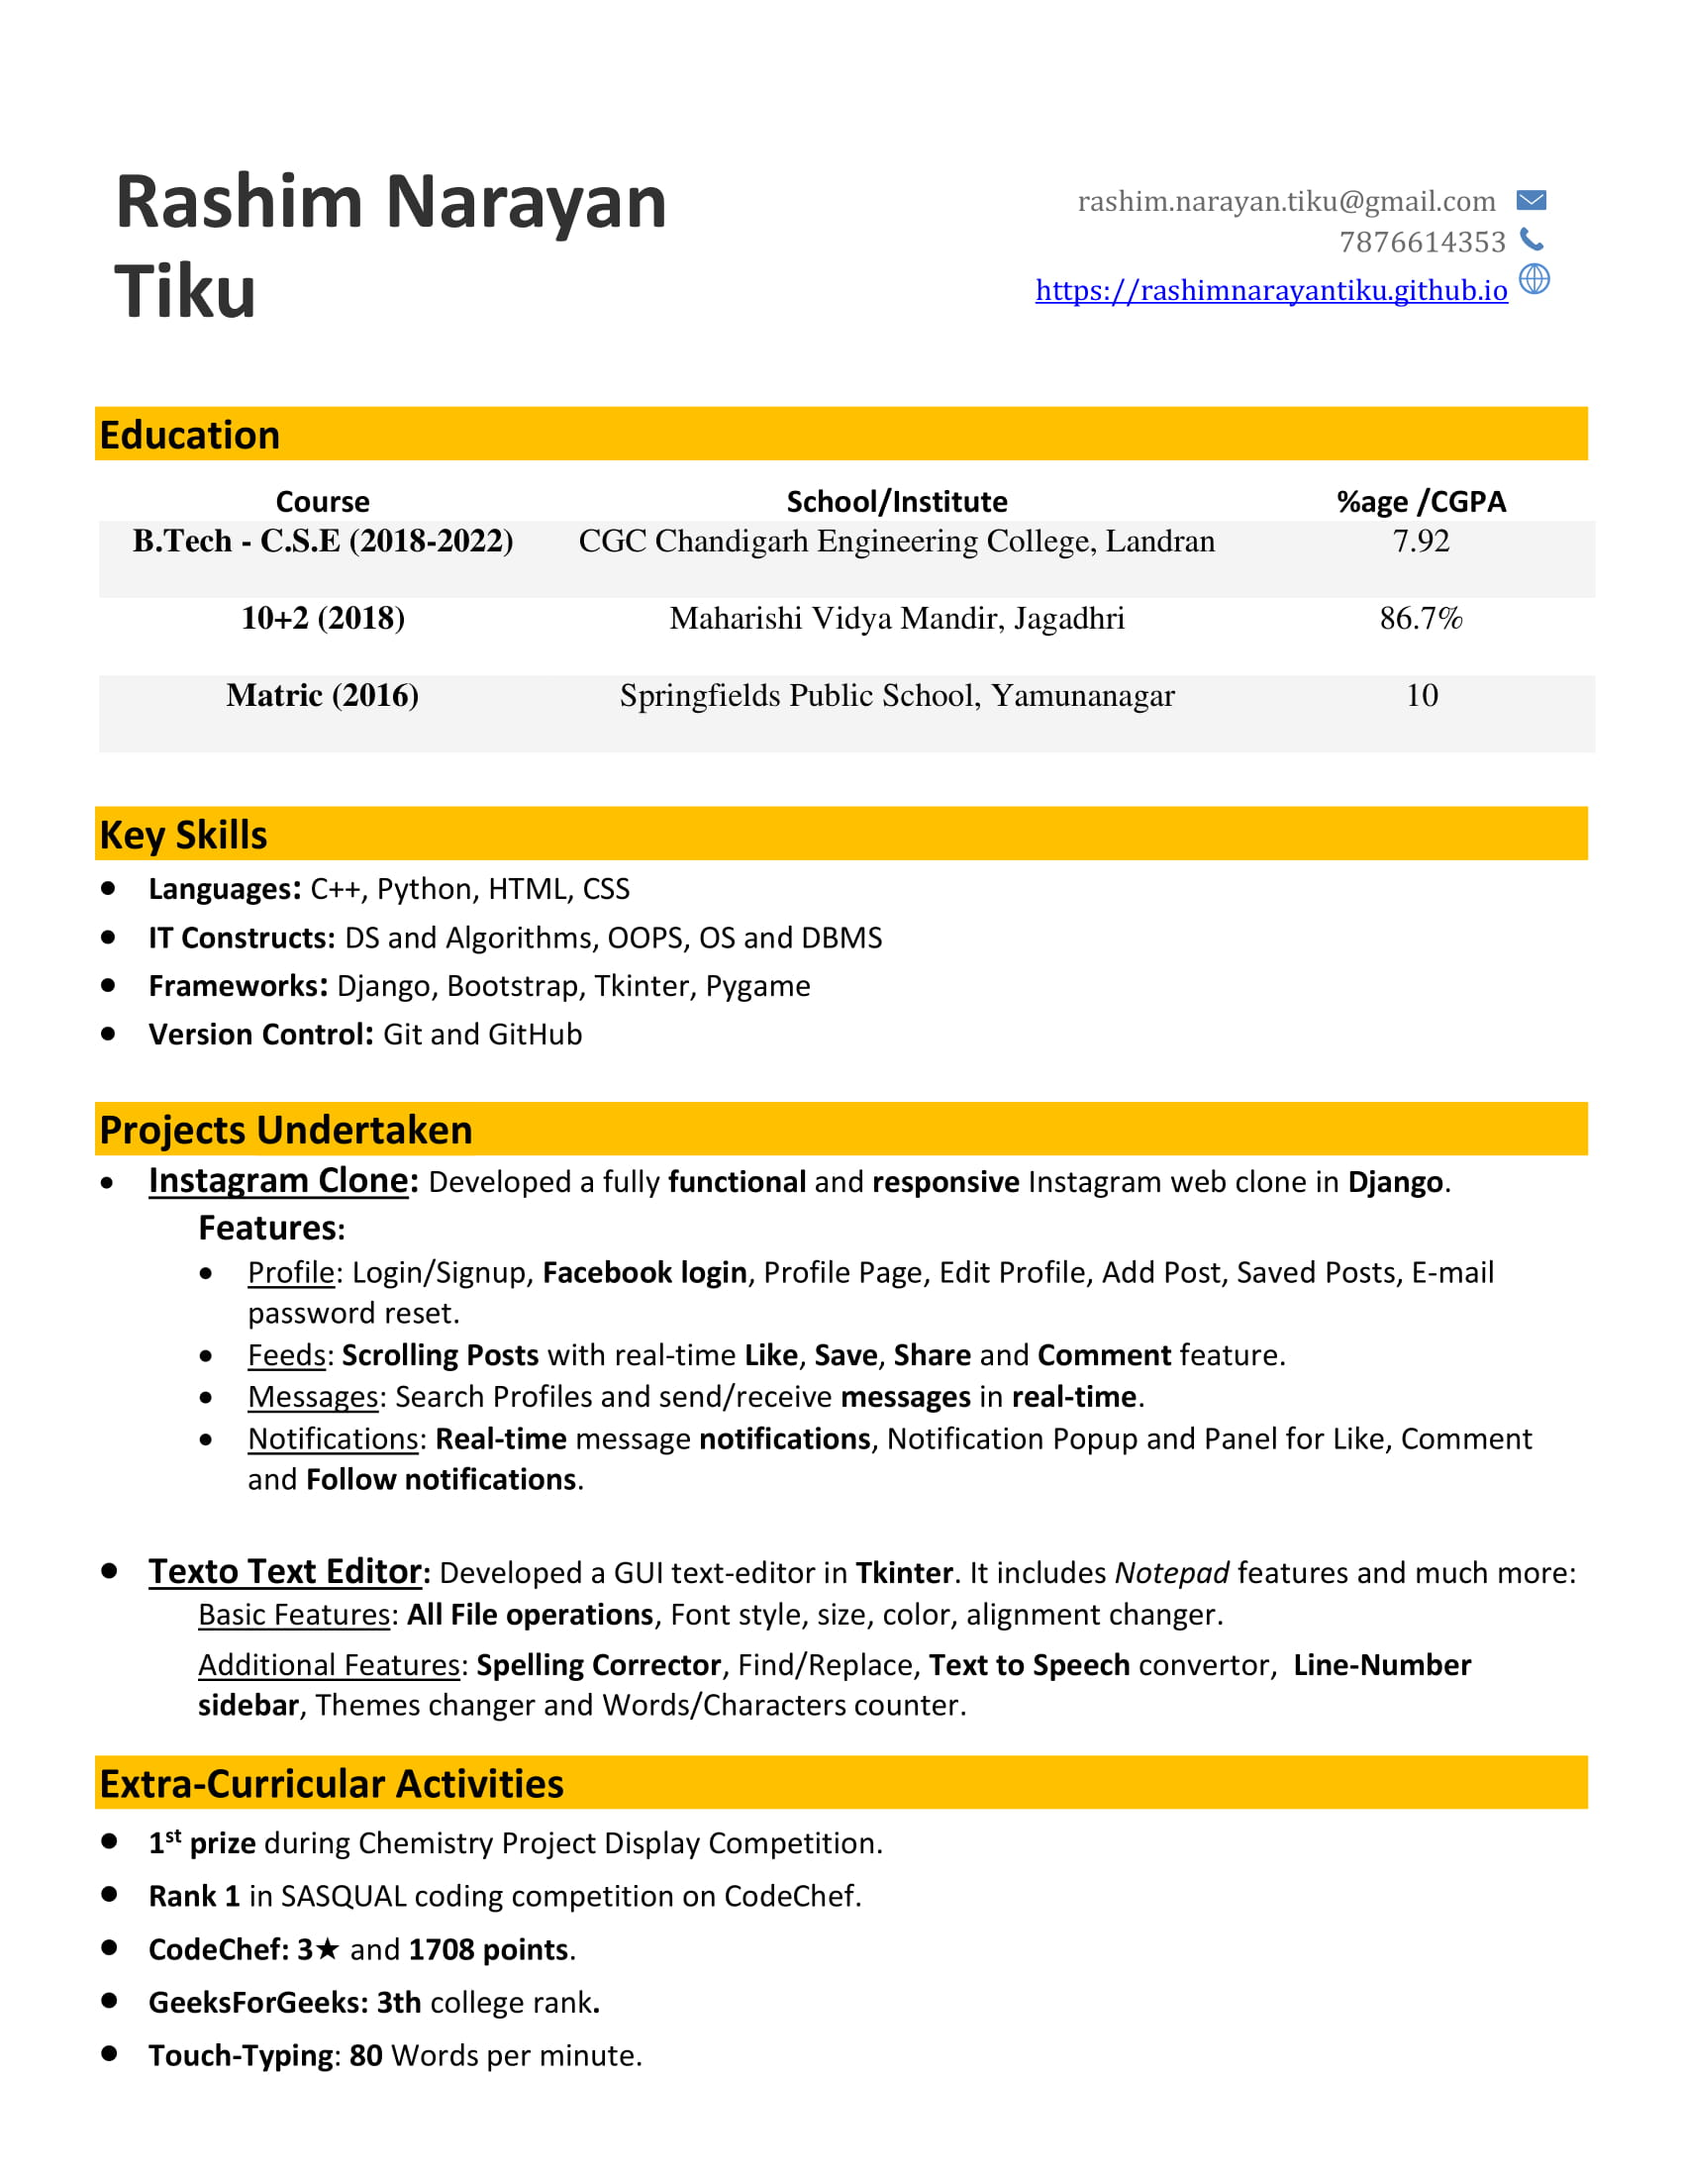
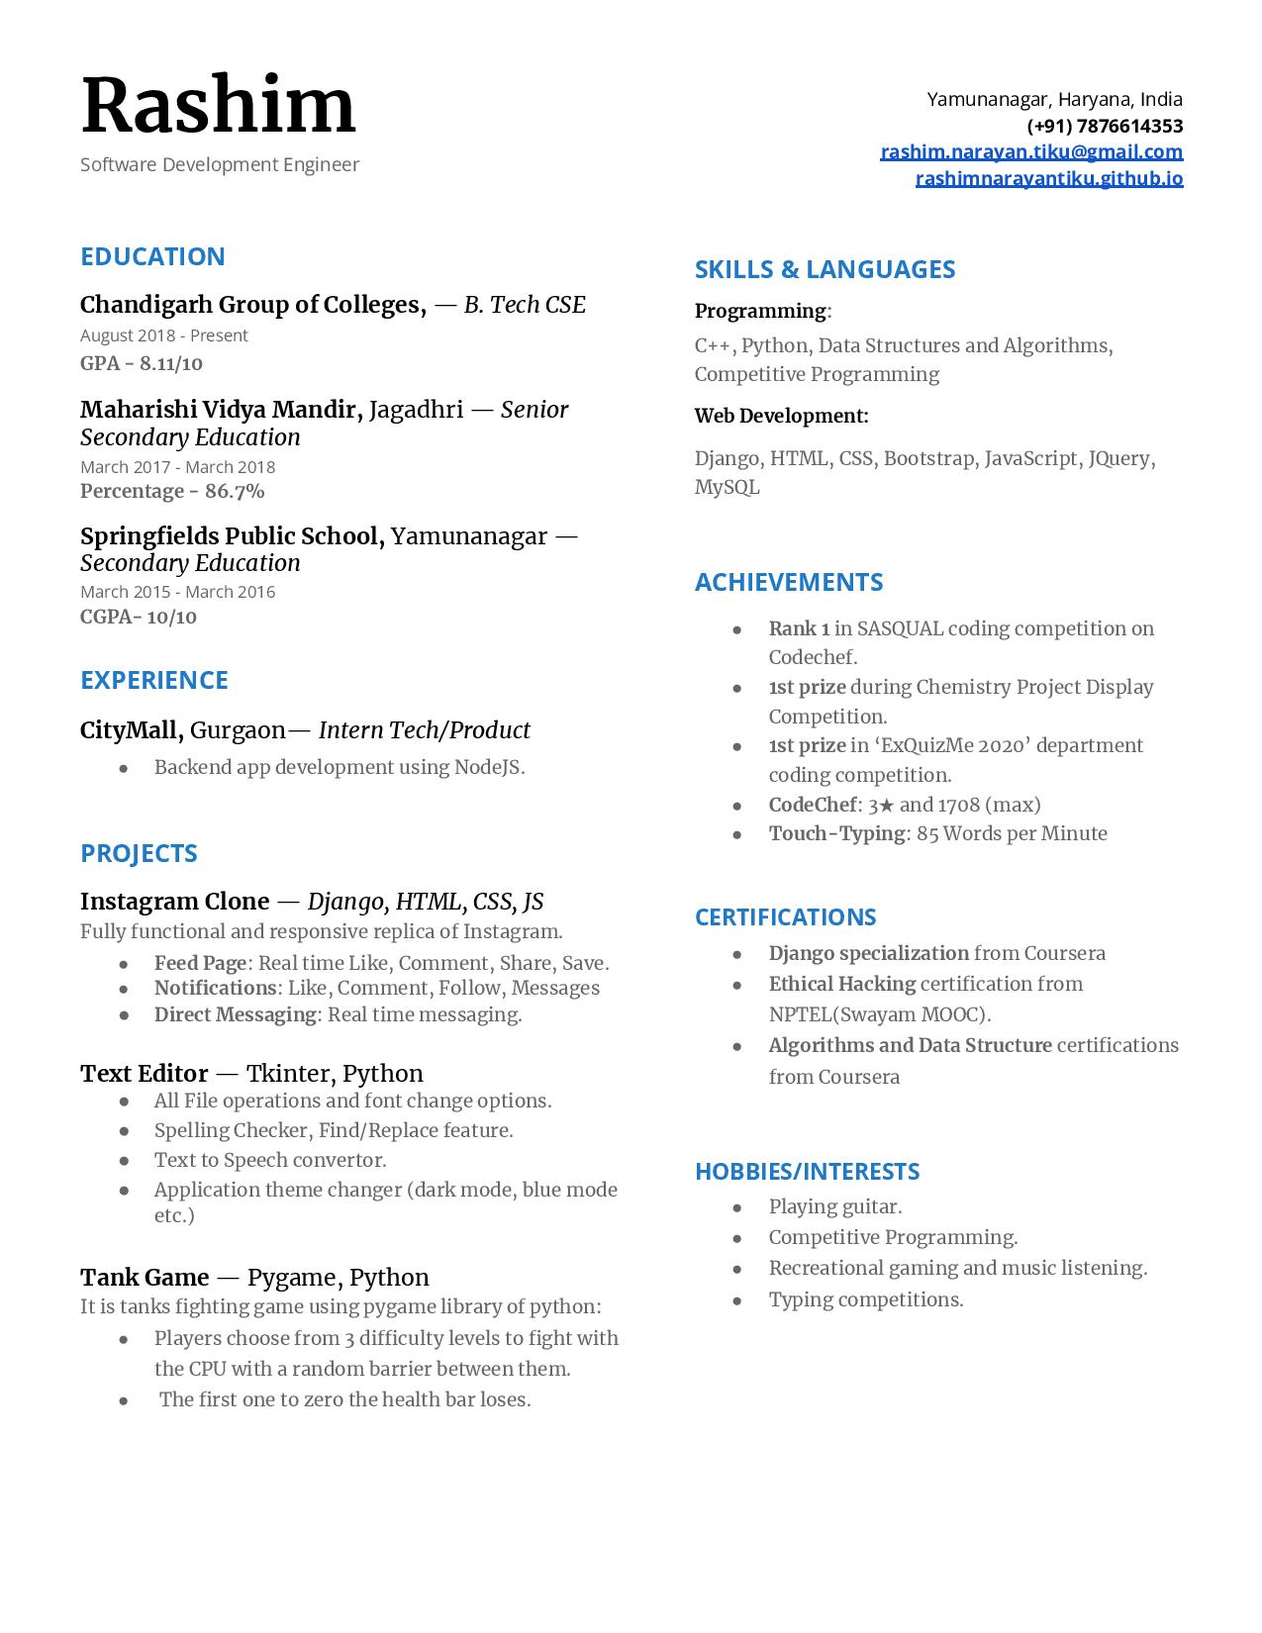
added resume

Changed region(s): [[0.0306, 0.0309, 0.9482, 0.9582], [0.7035, 0.2782, 0.9176, 0.34]]

diff --git a/index.html b/index.html
@@ -121,42 +121,14 @@
         <!-- Resume section -->
         <div class='page page-4 fade'>
             <div class='row'>
+                <div class='big-resume-container'>
+                    <img class='resume-img-big' src='./img/resume.jpg' alt='resume'>
+                </div>
                 <section id="resume">
-                    <!-- Section Title -->
-
-                    <section id="about" class='page-section'>
-                        <!-- Section Title -->
-                        <div class="section-title">
-                            <h2>Resume</h2>
-                        </div>
-                        <!-- end Section Title -->
-
-                        <div class='section-content'>
-                            <p class='section-heading'> Hello, I'm <span id='name'> &nbsp;Rashim Narayan Tiku </span> </p>
-                            <p> A Software Developer and Competitive Programmer.<br> Loves solving problems until one of us breaks down...<br>
-                            Also, a hobbyist guitarist and rapper.</p>
-                        </div>
-
-                
-                        <div class="skills pt-5">
-                            <div class='row col-sm-8 col-md-offset-4 col-lg-12 align-items-center'>
-                                <img src='./img/python.png'>
-                                <img src='./img/django.png'>
-                                <img src='./img/c++.png'>
-                                <img src='./img/js.png'>
-                                <img src='./img/html5.png'>
-                                <img src='./img/css3.png'>
-                            </div>
-                        </div>
-                    
-                    </section>
-
-                    <!-- <div class="section-title">
-                        <h2><small>03</small>Resume</h2>
-                    </div> -->
-                    <!-- end Section Title -->
-                    <!-- <img class='resume-img' src='./img/resume.jpg' alt='resume'> -->
-                
+                    <div class="section-title">
+                        <h2>Resume</h2>
+                    </div> 
+                    <img class='resume-img' src='./img/resume.jpg' alt='resume'>
                 </section>
             </div>
         </div>

diff --git a/css/style.css b/css/style.css
@@ -3,8 +3,6 @@
 @font-face{
     font-family: monospaceFont;
     src:url(Cousine-Regular.ttf);
-    font-weight: normal;
-    font-style: normal;
 }
 @font-face {
     font-family: ImpactFont;
@@ -13,15 +11,11 @@
 @font-face {
     font-family: firaCodeFont;
     src: url(FiraCode-Regular.woff);
-    font-weight: normal;
-    font-style: normal;
 }
 
 @font-face {
     font-family: shamberFont;
     src: url(Shamber-ERo4.ttf);
-    font-weight: normal;
-    font-style: normal;
 }
 
 
@@ -86,7 +80,7 @@ main{
 .icon-cards__content img{
     border-radius: 10px !important;
     width:54vw !important;
-    filter: brightness(70%);
+    filter: brightness(90%);
     transition: transform .3s;
 }
 
@@ -128,15 +122,14 @@ html::-webkit-scrollbar {
 
 body{
     background-color: #000;
-    overflow-x: hidden;
-    overflow-y: hidden;
+    overflow: hidden;
 }
 
 #loader {
     position: fixed;
     top: 0;
     left: 0;
-    z-index: 1000;
+    z-index: 10000;
     background-color: #fff;
     width: 100vw;
     height: 100vh;
@@ -265,6 +258,42 @@ section {
     padding-right: 2%;
     margin: 0 auto;
 }
+
+.resume-img{
+    position: absolute;
+    top:30vh;
+    left:30vw;
+    width:21vw;
+    filter: brightness(80%) blur(1px); 
+}
+.resume-img:hover{
+    filter: brightness(100%) blur(1px); 
+}
+
+.big-resume-container{
+    display: none;
+    position:fixed;
+    top:0; 
+    left:0;
+    z-index: 2000;
+    background-color: rgba(0, 0, 0, 0.512);
+    height:100vh;
+    width: 100vw;
+}
+.resume-img-big{
+    position: absolute;
+    left:32vw;
+    height: 100vh;
+}
+
+
+
+
+
+
+
+
+
 /* ===================================== v2 end ============================================ */
 
 

diff --git a/main.js b/main.js
@@ -269,7 +269,6 @@ function loadSaturn() {
     scene.add( object );
 
     // After loading is completed
-    scroll(0,0);
     document.getElementById('loader').style.display = "none";
     document.getElementsByTagName('body')[0].style.overflowY = "scroll";
     typeWriter(0);
@@ -277,11 +276,28 @@ function loadSaturn() {
 }
 
 
+function resumeAnimation() {
+  $('.big-resume-container').on('click', function() {
+    $(this).fadeTo(500,0);
+    setTimeout(() => {
+      this.style.display = 'none';
+      document.getElementsByTagName('body')[0].style.overflowY = "scroll";
+    }, 500);
+  });
+  $('.resume-img').on('click', function(){
+    document.getElementsByTagName('body')[0].style.overflowY = "hidden";
+    $('.big-resume-container').css('opacity',0);
+    $('.big-resume-container').css('display','block');
+    $('.big-resume-container').fadeTo(500,1);
+  });
+}
+
 
 $(function() {
   loadParticleJs();
   makeStarSphere();
   fadeEffect();    
+  resumeAnimation();
   loadSaturn();
   // typeWriter(0);  //Inside loadSaturn() function
   animate();
